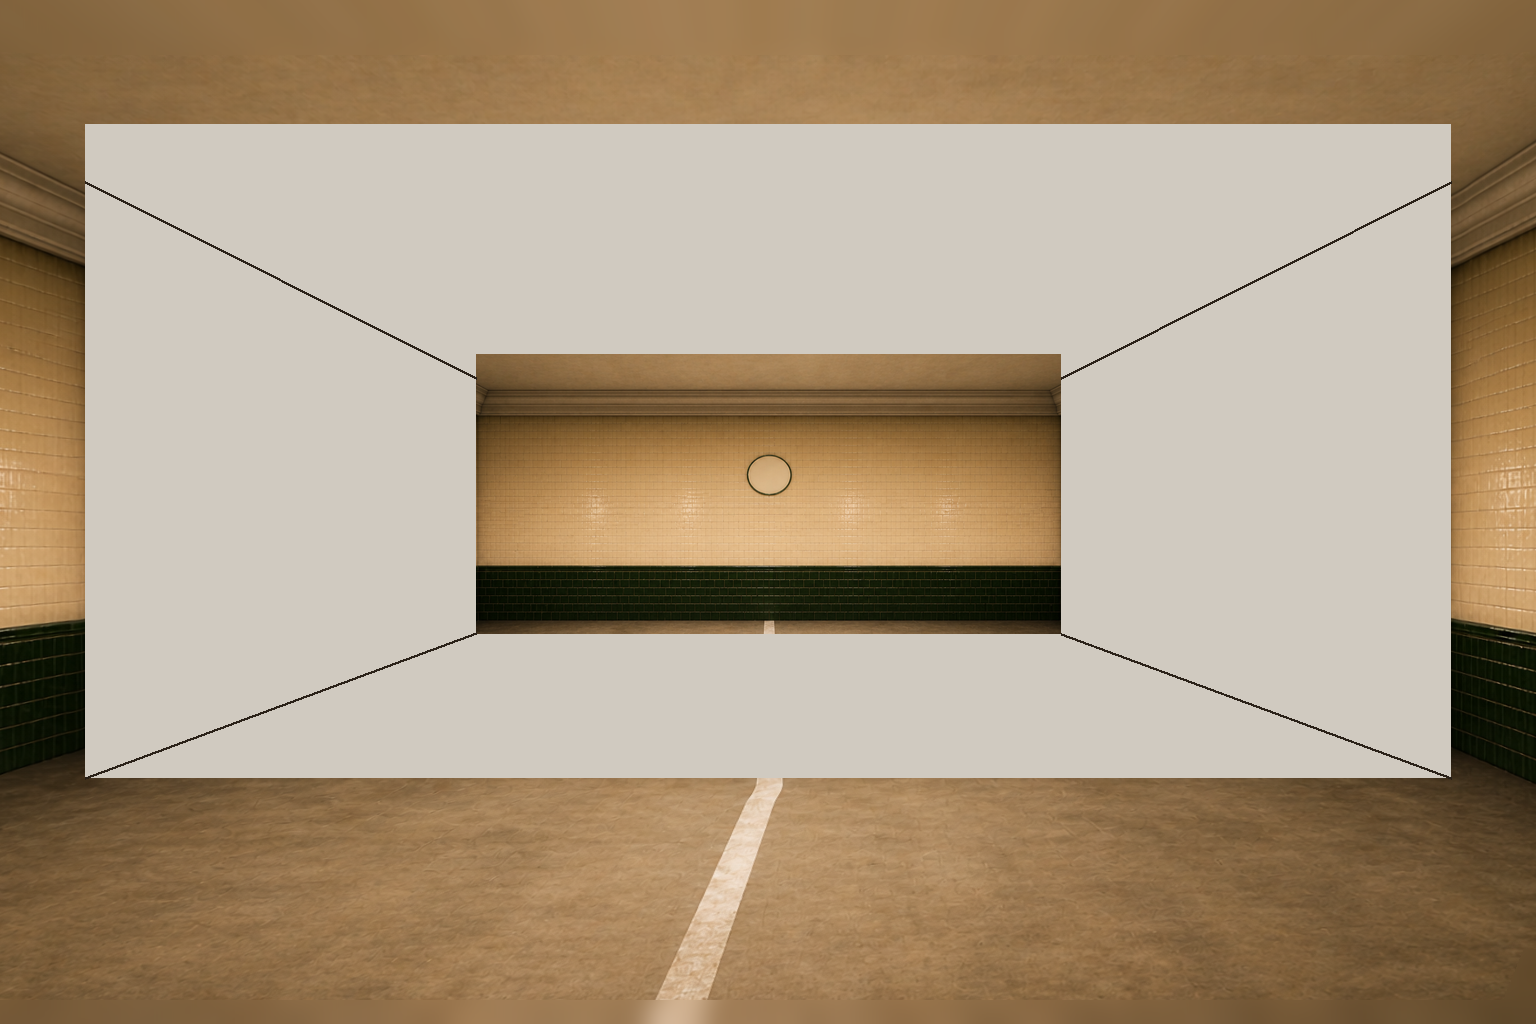
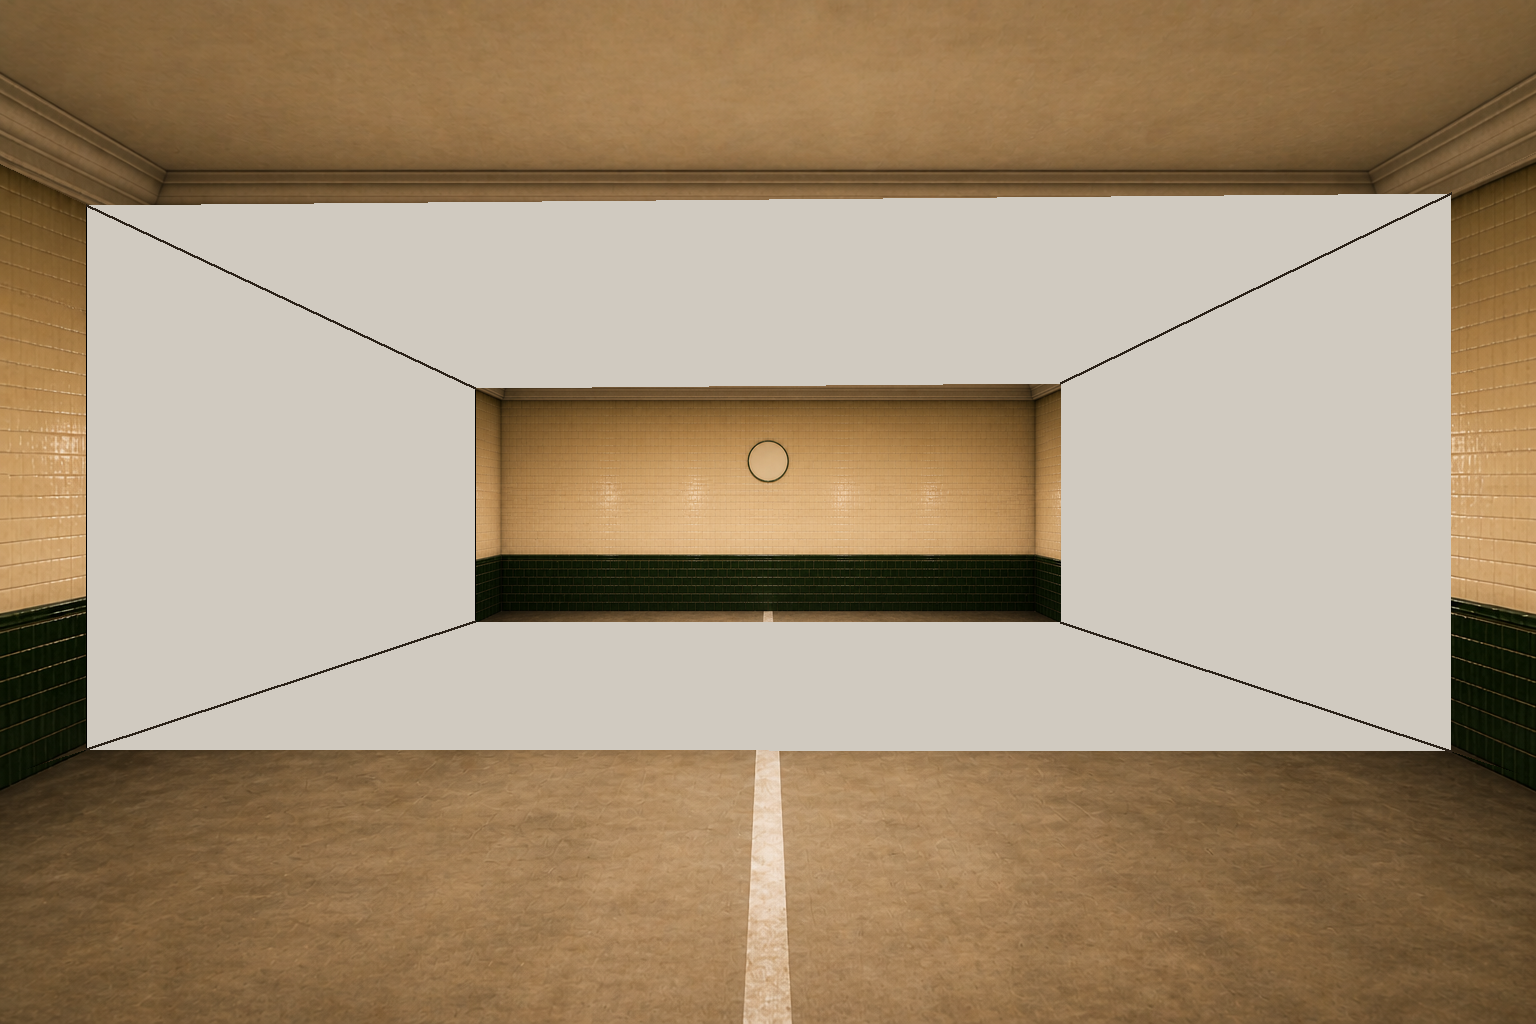
G-PREP locked: grow3 cover-fit prep guide is the standard grow; minimalAskText shared by manor emit and re-ask (prep branch); platform/E prep guide staged
Claude-Session: https://claude.ai/code/session_01GC1AH66NQ1uRMsBFmesias

diff --git a/design/registry.md b/design/registry.md
@@ -107,3 +107,31 @@ Kabe, verbatim: "the smear should not need to be done to that extent after the i
 
 ## R-DEEPBOX (2026-08-30, finding)
 Six painter rounds on the two underground deep walls falsified every reference treatment for holding the room box: uniform shrunk draft (+33%), corrected-previous (copied exactly), frame guide lines (+26-37%), measured-miss words (+51-53%), cut margins (+33%), full-frame blur-in-place (+33%/59% revealed). Constants measured across all rounds: camera/material scale reliably PASSes; object shapes are teachable (a squeezed 0.75 reference repainted at 0.95 under the object-true clause); the box recomposes by ~25-35% whenever the facing is a deep view. The residual is architectural. Two exits: (A) waive L-CLOSE for deep facings — the warp finishes them, discs land ~0.8, edges healable by one blur+regen pass; (B) deep facings stop being paintings — the renderer composes them at draw time from the promoted CLOSE wall's art inside the declared geometry, shape-true by construction, the same machinery that already draws door through-views. B kills the failure class and spends zero further rolls; the close art is already promoted and measured.
+
+
+## G-PREP — the standard grow construction (2026-08-31)
+
+[Kabe, verbatim]: "Let's lock this process in as the standard because that
+corner alignment was so clean on the first try."
+
+The straight-in grow (1x1 -> 2x1, and by extension any depth extension) is
+built as a COVER-FIT PREP GUIDE (deep-draft.py grow3), superseding grow's
+vp-ray/snap construction and grow2's line-draw:
+
+1. DETECT, image-first: the 1x1's four corner lines found on the raw painting
+   alone (candidate grid over slope x height, edge energy x cross-line fabric
+   contrast, mirrored pairs, one shared eye row, measured-row bands, seam-hug
+   launch, per-corner misfit reported).
+2. CORRECT: our wireframe lines run through the DETECTED close corners toward
+   the declared vp; deep corners at the declared depth ratio.
+3. COVER-FIT, locked scale only (L-ENVELOPE by construction): each plane cut
+   along its detected lines, uniformly scaled to the minimal size covering its
+   own FRONT footprint bounded by the corrected lines, cropped at those lines.
+   Never scaled to cover the far section. Back wall cover-fits the deep rect
+   the same way. The middle ring stays pale wireframe gap with the
+   close-to-deep corner lines drawn.
+4. ASK: the fill pass FINISHES the prep guide (minimalAskText prep branch) -
+   Image 1 is never framed as a style reference of another wall.
+
+Amendments to earlier constructions remain in force where they still apply:
+lights are after-assets; no dado mid-lines; molding rides the wall side.

diff --git a/design/growth-doctrine.md b/design/growth-doctrine.md
@@ -190,3 +190,8 @@ middle ring stays wireframe gap with the close-to-deep corner lines drawn;
 the back wall cover-fits the deep rect the same way. Coverage carries the
 angle mismatch to the crop seams, where the finishing pass reconciles. The
 ask frames Image 1 as a prep guide being FINISHED, never as a style reference.
+
+
+**LOCKED AS STANDARD** [Kabe, 2026-08-31]: "Let's lock this process in as the
+standard because that corner alignment was so clean on the first try." grow3
+is the standing grow construction; registry law G-PREP.
